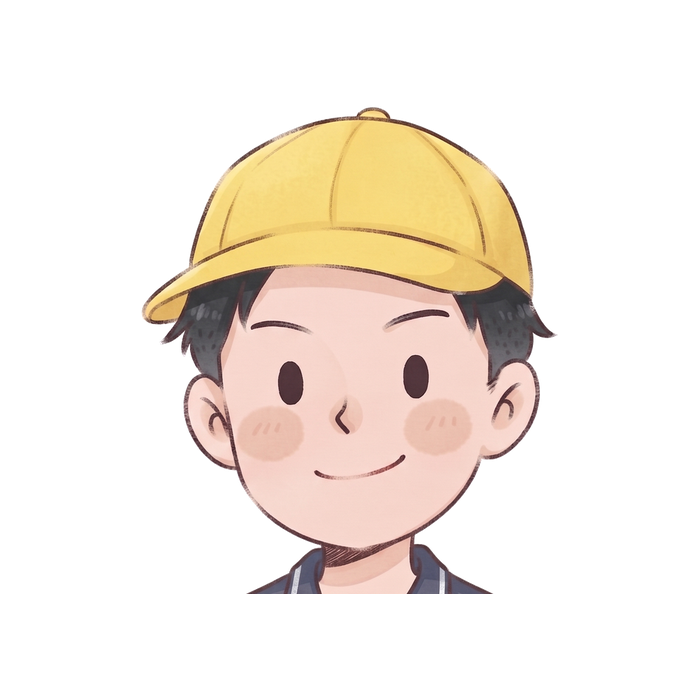
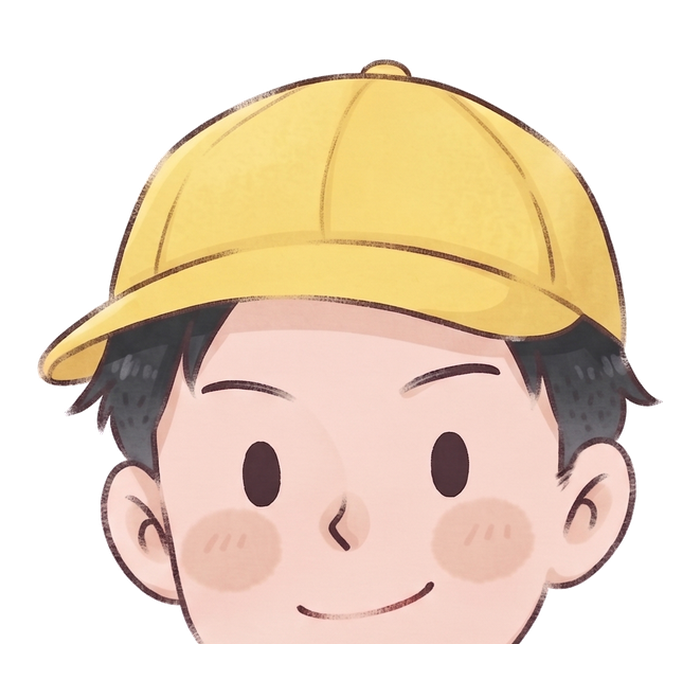
Keep the campus hint clear of the map and open Case 001 from School Hall.
Dialogue heads fill the circle, and the fair scenes and map sit larger beside the notebook.

diff --git a/game/clue-hunt/index.html b/game/clue-hunt/index.html
@@ -10,7 +10,7 @@
 <link href="https://fonts.googleapis.com/css2?family=Fredoka:wght@500;600;700&family=Nunito:wght@400;500;600;700&display=swap" rel="stylesheet"/>
 <link rel="stylesheet" href="../assets/huninn.css"/>
 <link rel="stylesheet" href="../practice/grammar/grammar.css?v=52"/>
-<link rel="stylesheet" href="game.css?v=36"/>
+<link rel="stylesheet" href="game.css?v=4"/>
 <link rel="stylesheet" href="../assets/account.css?v=8" />
 <script src="../assets/supabase-public.js?v=1"></script>
 <script src="../assets/progress-sync.js?v=4"></script>
@@ -169,14 +169,14 @@
     </aside>
   </div>
 </main>
-<script src="clue-hunt-state.js?v=3"></script>
+<script src="clue-hunt-state.js?v=4"></script>
 <script>
 (function () {
   var portraits = {
-    evan: { bust: "after-school-club/art/players/evan.png?v=3", head: "after-school-club/art/players/heads/evan.png?v=3" },
-    lily: { bust: "after-school-club/art/players/lily.png?v=3", head: "after-school-club/art/players/heads/lily.png?v=3" },
-    ben: { bust: "after-school-club/art/players/ben.png?v=3", head: "after-school-club/art/players/heads/ben.png?v=3" },
-    hannah: { bust: "after-school-club/art/players/hannah.png?v=3", head: "after-school-club/art/players/heads/hannah.png?v=3" }
+    evan: { bust: "after-school-club/art/players/evan.png?v=3", head: "after-school-club/art/players/heads/evan.png?v=4" },
+    lily: { bust: "after-school-club/art/players/lily.png?v=3", head: "after-school-club/art/players/heads/lily.png?v=4" },
+    ben: { bust: "after-school-club/art/players/ben.png?v=3", head: "after-school-club/art/players/heads/ben.png?v=4" },
+    hannah: { bust: "after-school-club/art/players/hannah.png?v=3", head: "after-school-club/art/players/heads/hannah.png?v=4" }
   };
   var playerId = "";
   try {
@@ -306,7 +306,7 @@
       var portrait = portraits[playerId];
       person = { id: "you", name: "You", head: portrait.head, art: portrait.bust };
     } else if (person && person.head.indexOf("?") < 0) {
-      person = { id: person.id, name: person.name, head: person.head + "?v=3", art: person.art };
+      person = { id: person.id, name: person.name, head: person.head + "?v=4", art: person.art };
     }
     var row = document.createElement("div");
     row.className = "talk-line " + rowClass;

diff --git a/game/after-school-club/index.html b/game/after-school-club/index.html
@@ -9,7 +9,7 @@
 <link href="https://fonts.googleapis.com/css2?family=Nunito:wght@400;600;700;800&display=swap" rel="stylesheet"/>
 <link rel="stylesheet" href="../../assets/huninn.css"/>
 <link rel="stylesheet" href="../worlds.css?v=4"/>
-<link rel="stylesheet" href="club.css?v=3"/>
+<link rel="stylesheet" href="club.css?v=4"/>
 <link rel="stylesheet" href="../../assets/account.css?v=8"/>
 <script src="../../assets/supabase-public.js?v=1"></script>
 <script src="../../assets/progress-sync.js?v=4"></script>
@@ -70,7 +70,7 @@
     <h2 class="sr-only">Campus map</h2>
     <div class="map-tools">
       <button type="button" class="who" id="change-character">
-        <img id="who-img" alt="" width="700" height="700" src="art/players/heads/evan.png?v=3"/>
+        <img id="who-img" alt="" width="700" height="700" src="art/players/heads/evan.png?v=4"/>
         <span><strong id="who-name">You</strong><small>Change character</small></span>
       </button>
     </div>
@@ -99,16 +99,12 @@
       <img class="place-art" src="art/places/view-notice-board.jpg?v=1" alt="Notice Board" width="1600" height="1195"/>
     </div>
     <div class="place-view" data-place-view="hall">
-      <h2>School Hall</h2>
-      <div class="place-frame">
-        <img class="place-art" src="art/places/view-school-hall.jpeg?v=3" alt="School Hall" width="2048" height="2048"/>
-        <a class="case-file" href="../clue-hunt/" aria-label="Case 001. School Mystery.">
-          <img src="art/case-001-file.png?v=3" alt="" width="1112" height="1414"/>
-        </a>
-      </div>
+      <a class="hall-report" href="../clue-hunt/" aria-label="Case 001. School Mystery.">
+        <img src="art/case-001-file.png?v=3" alt="" width="1112" height="1414"/>
+      </a>
     </div>
   </section>
 </main>
-<script src="club.js?v=3"></script>
+<script src="club.js?v=4"></script>
 </body>
 </html>

diff --git a/game/after-school-club/club.css b/game/after-school-club/club.css
@@ -230,7 +230,10 @@ html[data-asc="map"] .screen-map {
 }
 .map-stage {
   position: absolute;
-  inset: 0;
+  top: 7.4rem;
+  right: 0;
+  bottom: 0.35rem;
+  left: 0;
   display: grid;
   place-items: center;
   container-type: size;
@@ -262,29 +265,17 @@ html[data-asc="map"] .screen-map {
 .place-view { display: none; }
 html[data-place="notice"] .place-view[data-place-view="notice"],
 html[data-place="hall"] .place-view[data-place-view="hall"] { display: block; }
-.place-frame {
-  position: relative;
-  width: fit-content;
-  max-width: 100%;
-  margin: 0.4rem auto 0;
-}
-.place-frame .case-file {
-  position: absolute;
-  z-index: 2;
-  left: 34%;
-  top: 52%;
-  width: 26%;
+.hall-report {
   display: block;
-  margin: 0;
-  padding: 0;
+  width: min(100%, 28rem);
+  margin: 0.8rem auto 0;
   line-height: 0;
-  filter: drop-shadow(0 8px 10px rgba(48, 32, 16, 0.28));
+  filter: drop-shadow(0 8px 10px rgba(48, 32, 16, 0.22));
 }
-.place-frame .case-file img {
+.hall-report img {
   display: block;
   width: 100%;
   height: auto;
-  object-fit: contain;
   background: transparent;
 }
 .map-hot:focus-visible,
@@ -317,14 +308,11 @@ html[data-place="hall"] .place-view[data-place-view="hall"] { display: block; }
   max-height: calc(100dvh - 12rem);
   margin: 0.4rem auto 0;
   object-fit: contain;
-}
-.place-frame .place-art {
-  width: auto;
-  max-width: min(100%, calc(100dvh - 12rem));
-  margin: 0;
+  border-radius: 18px;
 }
 
 @media (max-width: 760px) {
+  .map-stage { top: 10.6rem; }
   .map-hint {
     top: 5.5rem;
     width: min(16rem, 70%);

diff --git a/test/game-hub.test.js b/test/game-hub.test.js
@@ -172,7 +172,8 @@ test('after-school club lists School Mystery and keeps Nunito', () => {
   assert.match(page, /art\/campus-map\.png\?v=2/);
   assert.match(page, /art\/case-001-file\.png\?v=3/);
   assert.match(page, /data-open="hall"/);
-  assert.match(page, /view-school-hall\.jpeg/);
+  assert.doesNotMatch(page, /<h2>School Hall<\/h2>/);
+  assert.doesNotMatch(page, /view-school-hall/);
   assert.match(page, /#place-hall|place-hall/);
   assert.match(page, /width="1467" height="1238"/);
   assert.match(page, /aria-label="Evan"/);
@@ -198,7 +199,7 @@ test('after-school club lists School Mystery and keeps Nunito', () => {
   assert.doesNotMatch(page, /case-file-name/);
   const clubCss = fs.readFileSync(path.join(root, 'game/after-school-club/club.css'), 'utf8');
   assert.match(clubCss, /1467 \/ 1238/);
-  assert.match(clubCss, /\.map-stage \{[^}]*inset:\s*0/);
+  assert.match(clubCss, /\.map-stage \{[^}]*top:\s*7\.4rem/);
   assert.match(clubCss, /\.map-art \{[^}]*object-fit:\s*contain/);
   assert.match(clubCss, /\.cast-card \{[^}]*border:\s*7px solid transparent/);
   assert.match(clubCss, /\.cast-card \{[^}]*background:\s*transparent/);

diff --git a/game/game.css b/game/game.css
@@ -49,7 +49,7 @@
 .hunt-stage { min-width: 0; }
 .fair-map {
   position: relative;
-  width: min(100%, 640px);
+  width: min(100%, 56rem);
   margin: 0 auto 0.35rem;
 }
 .fair-map-base {
@@ -208,7 +208,7 @@
   display: flex;
   align-items: center;
   justify-content: center;
-  height: 14rem;
+  height: 18rem;
   overflow: hidden;
   border-radius: 12px;
   background: #fff8ee;
@@ -228,11 +228,11 @@
   display: block;
   width: auto;
   height: auto;
-  max-width: min(100%, 720px);
-  max-height: min(46vh, 420px);
+  max-width: 100%;
+  max-height: min(68vh, 640px);
   margin: 0;
   object-fit: contain;
-  border-radius: 12px;
+  border-radius: 18px;
 }
 .notebook {
   container-type: inline-size;

diff --git a/game/after-school-club/club.js b/game/after-school-club/club.js
@@ -3,10 +3,10 @@
 
   var KEY = 'asc-player-v1';
   var PLAYERS = {
-    evan: { name: 'Evan', src: 'art/players/heads/evan.png?v=3' },
-    lily: { name: 'Lily', src: 'art/players/heads/lily.png?v=3' },
-    ben: { name: 'Ben', src: 'art/players/heads/ben.png?v=3' },
-    hannah: { name: 'Hannah', src: 'art/players/heads/hannah.png?v=3' }
+    evan: { name: 'Evan', src: 'art/players/heads/evan.png?v=4' },
+    lily: { name: 'Lily', src: 'art/players/heads/lily.png?v=4' },
+    ben: { name: 'Ben', src: 'art/players/heads/ben.png?v=4' },
+    hannah: { name: 'Hannah', src: 'art/players/heads/hannah.png?v=4' }
   };
   var PLACES = { notice: true, hall: true };
 

diff --git a/test/clue-hunt-map.test.js b/test/clue-hunt-map.test.js
@@ -129,7 +129,7 @@ test('notebook and solve page are present, without a missing-person picker', () 
 test('clue hunt styles use fills and contain the pictures', () => {
   const html = huntHtml();
   const css = fs.readFileSync(path.join(root, 'game/game.css'), 'utf8');
-  assert.match(html, /game\.css\?v=36/);
+  assert.match(html, /game\.css\?v=4/);
   assert.doesNotMatch(css, /#e25c12/);
   assert.match(css, /\.fair-map \{/);
   assert.match(css, /\.hotspot \{[^}]*position:\s*absolute/);
